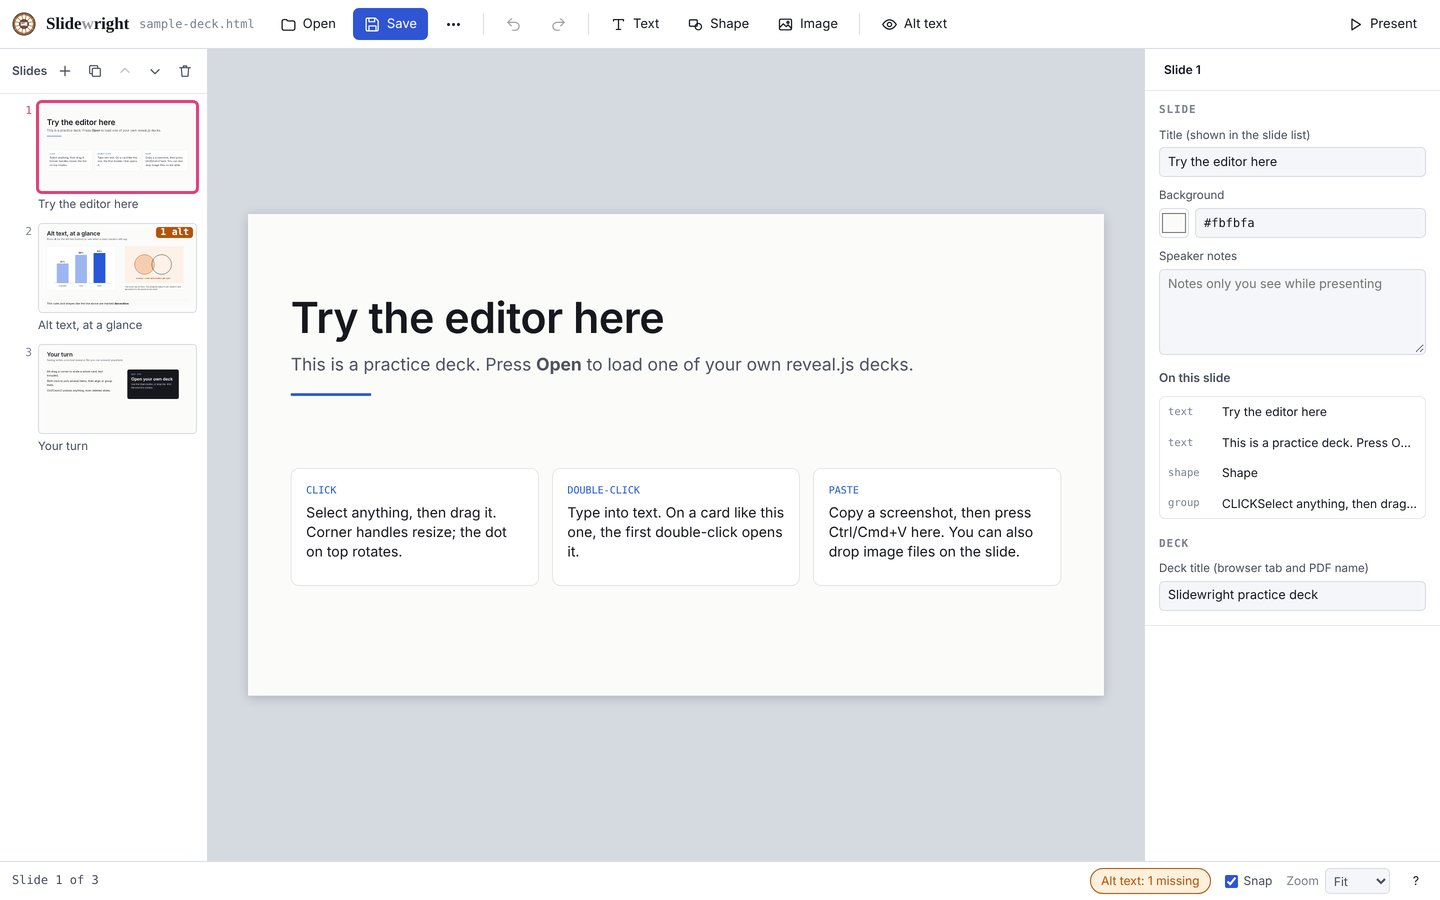
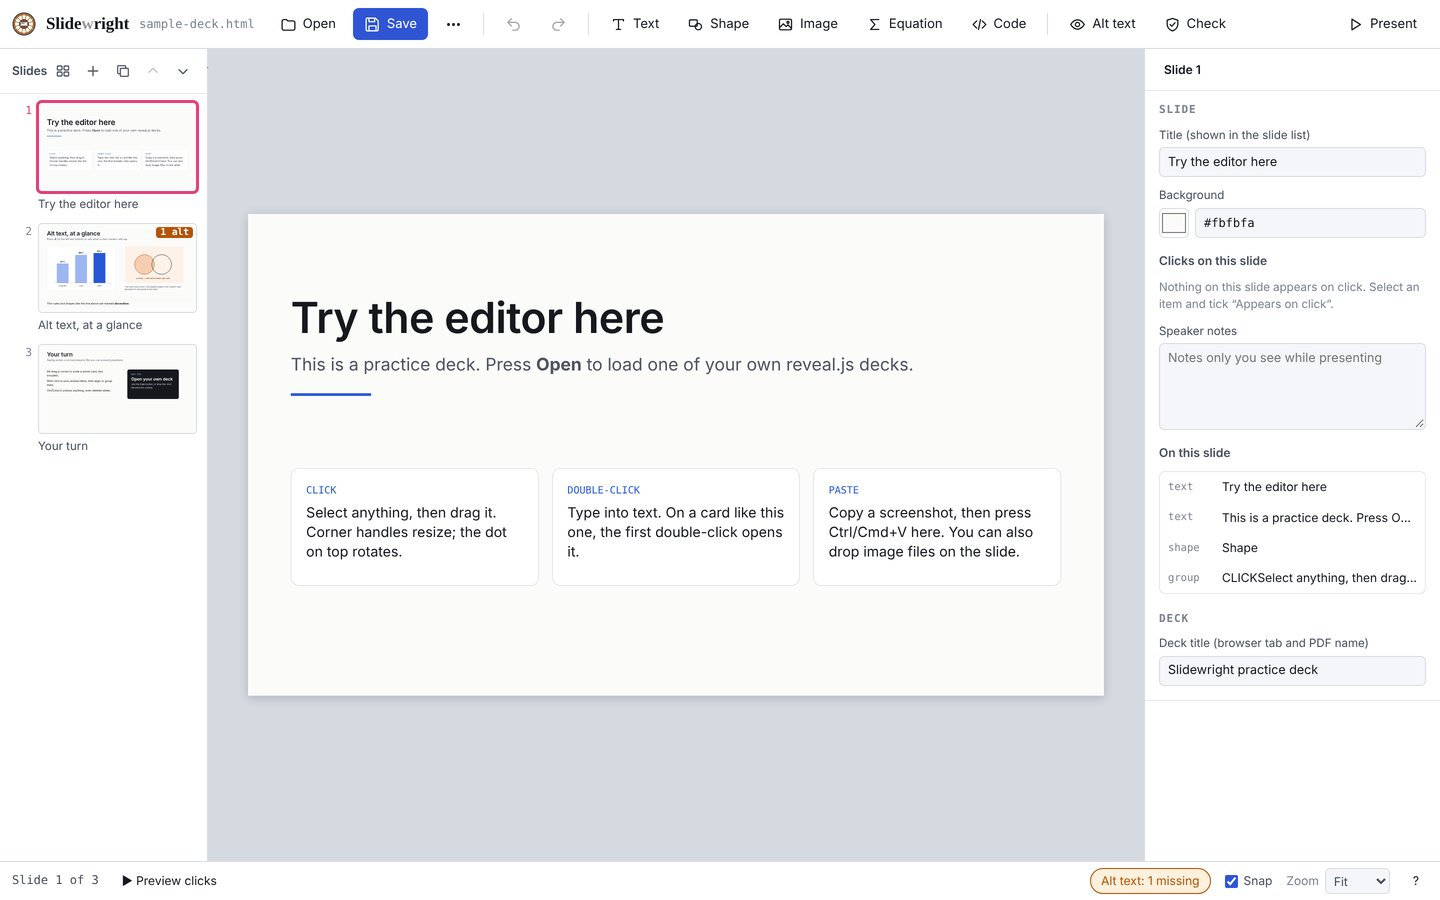
Update Slidewright page for its new features
Features grouped as editing, slides and builds, accessibility, presenting
and sharing, and GitHub, following the app's README. New editor screenshot
and an accessibility check screenshot. Homepage blurb updated.

Claude-Session: https://claude.ai/code/session_01BWpusGDiagPhNNgcej7SAc

diff --git a/_pages/slidewright.html b/_pages/slidewright.html
@@ -3,7 +3,7 @@ layout: single
 title: "Slidewright"
 permalink: /tools/slidewright/
 author_profile: true
-excerpt: "Slidewright is a minimalist browser editor for reveal.js presentations. Open an HTML deck, edit it on the slide, check alt text, and save it back as the same file."
+excerpt: "Slidewright is a minimalist browser editor for reveal.js presentations. Edit a deck on the slide, add equations and code, check accessibility, present with live drawing tools, and work with GitHub."
 ---
 {% comment %}
   Text and features live in _data/slidewright.yml.
@@ -24,13 +24,18 @@ excerpt: "Slidewright is a minimalist browser editor for reveal.js presentations
 </section>
 
 <figure class="sw-shot">
-  <a href="{{ sw.tool.url }}"><img src="{{ '/assets/slidewright/screenshot.jpg' | relative_url }}" alt="The Slidewright editor with its practice deck open. Slide thumbnails are on the left, the selected slide is in the middle, and slide settings such as title, background and speaker notes are on the right." width="1440" height="900" loading="lazy"></a>
+  <a href="{{ sw.tool.url }}"><img src="{{ '/assets/slidewright/screenshot.jpg' | relative_url }}" alt="The Slidewright editor with its practice deck open. Slide thumbnails are on the left, the selected slide is in the middle, and slide settings such as title, background, clicks and speaker notes are on the right." width="1440" height="900"></a>
   <figcaption>Slidewright opens with a short practice deck. Press Open to load one of your own.</figcaption>
 </figure>
 
-<h2 id="features">What it does</h2>
+<nav class="sw-jump" aria-label="Features">
+  {% for g in sw.groups %}<a href="#{{ g.id }}">{{ g.title }}</a>{% endfor %}
+</nav>
+
+{% for g in sw.groups %}
+<h2 id="{{ g.id }}">{{ g.title }}</h2>
 <div class="tc-features">
-  {% for f in sw.features %}
+  {% for f in g.features %}
   <div class="tc-feature">
     <i class="{{ f.icon }}" aria-hidden="true"></i>
     <h3>{{ f.title }}</h3>
@@ -38,5 +43,12 @@ excerpt: "Slidewright is a minimalist browser editor for reveal.js presentations
   </div>
   {% endfor %}
 </div>
+{% if g.image %}
+<figure class="sw-shot">
+  <img src="{{ '/assets/slidewright/' | append: g.image | relative_url }}" alt="{{ g.image_alt | strip }}" width="1440" height="900" loading="lazy">
+  {% if g.image_caption %}<figcaption>{{ g.image_caption }}</figcaption>{% endif %}
+</figure>
+{% endif %}
+{% endfor %}
 
-<p>{{ sw.saving }}</p>
+<p class="sw-license">{{ sw.tool.license }} <a href="{{ sw.tool.repo }}">See the source on GitHub.</a></p>

diff --git a/_sass/_slidewright.scss b/_sass/_slidewright.scss
@@ -62,6 +62,34 @@ $sw-paper: #faf6f0;
     }
   }
 
+  .sw-jump {
+    display: flex;
+    flex-wrap: wrap;
+    gap: 0.5em;
+    margin: 0 0 1em;
+
+    a {
+      padding: 0.3em 0.8em;
+      font-size: $type-size-6;
+      color: $sw-ink;
+      text-decoration: none;
+      background: $sw-paper;
+      border: 1px solid mix($sw-wood, #fff, 30%);
+      border-radius: 999px;
+
+      &:hover,
+      &:focus {
+        border-color: $sw-wood;
+      }
+    }
+  }
+
+  .sw-license {
+    margin-top: 2em;
+    font-size: $type-size-6;
+    color: $gray;
+  }
+
   @media (max-width: 600px) {
     .sw-hero {
       flex-direction: column;

diff --git a/_pages/about.md b/_pages/about.md
@@ -43,7 +43,7 @@ I build browser-based tools for teaching machine learning. The main one is [Torc
 
 See [everything it can open]({{ '/tools/torch-canvas/' | relative_url }}), from a 10-layer MLP to Qwen2.5-VL.
 
-The newest is [Slidewright]({{ '/tools/slidewright/' | relative_url }}), a minimalist editor for reveal.js presentations. Open an HTML deck, drag, resize and type right on the slide, check that every picture has alt text, and save it back as the same file.
+The newest is [Slidewright]({{ '/tools/slidewright/' | relative_url }}), a minimalist editor for reveal.js presentations. Open an HTML deck and edit it right on the slide, with equations, code and layouts that match the deck. It checks accessibility with a score modeled on campus tools, presents with a pen and laser pointer, and saves back to the same file or to GitHub.
 
 <a class="btn btn--primary" href="/slidewright/">Open Slidewright</a>
 
